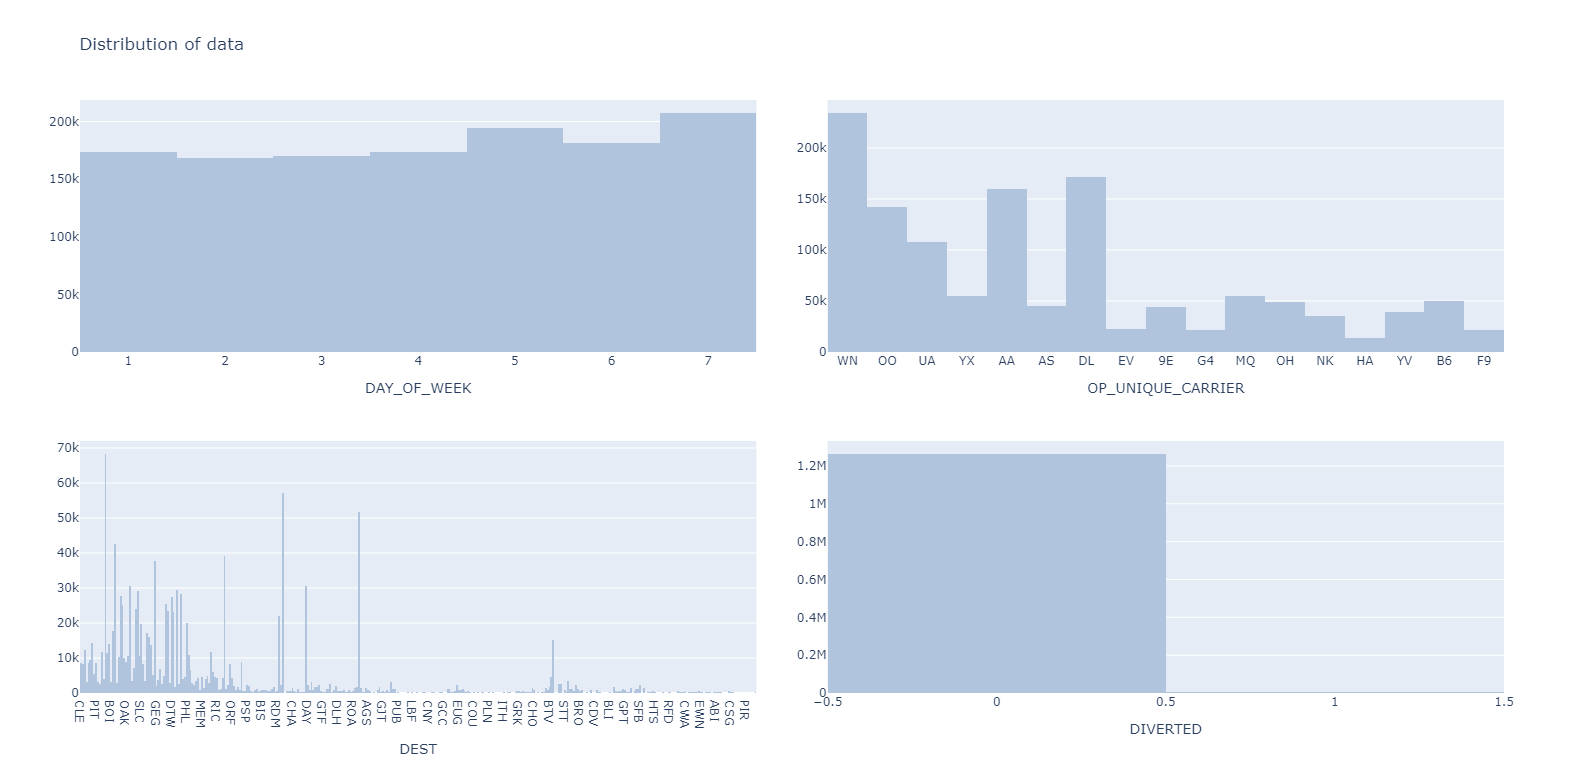
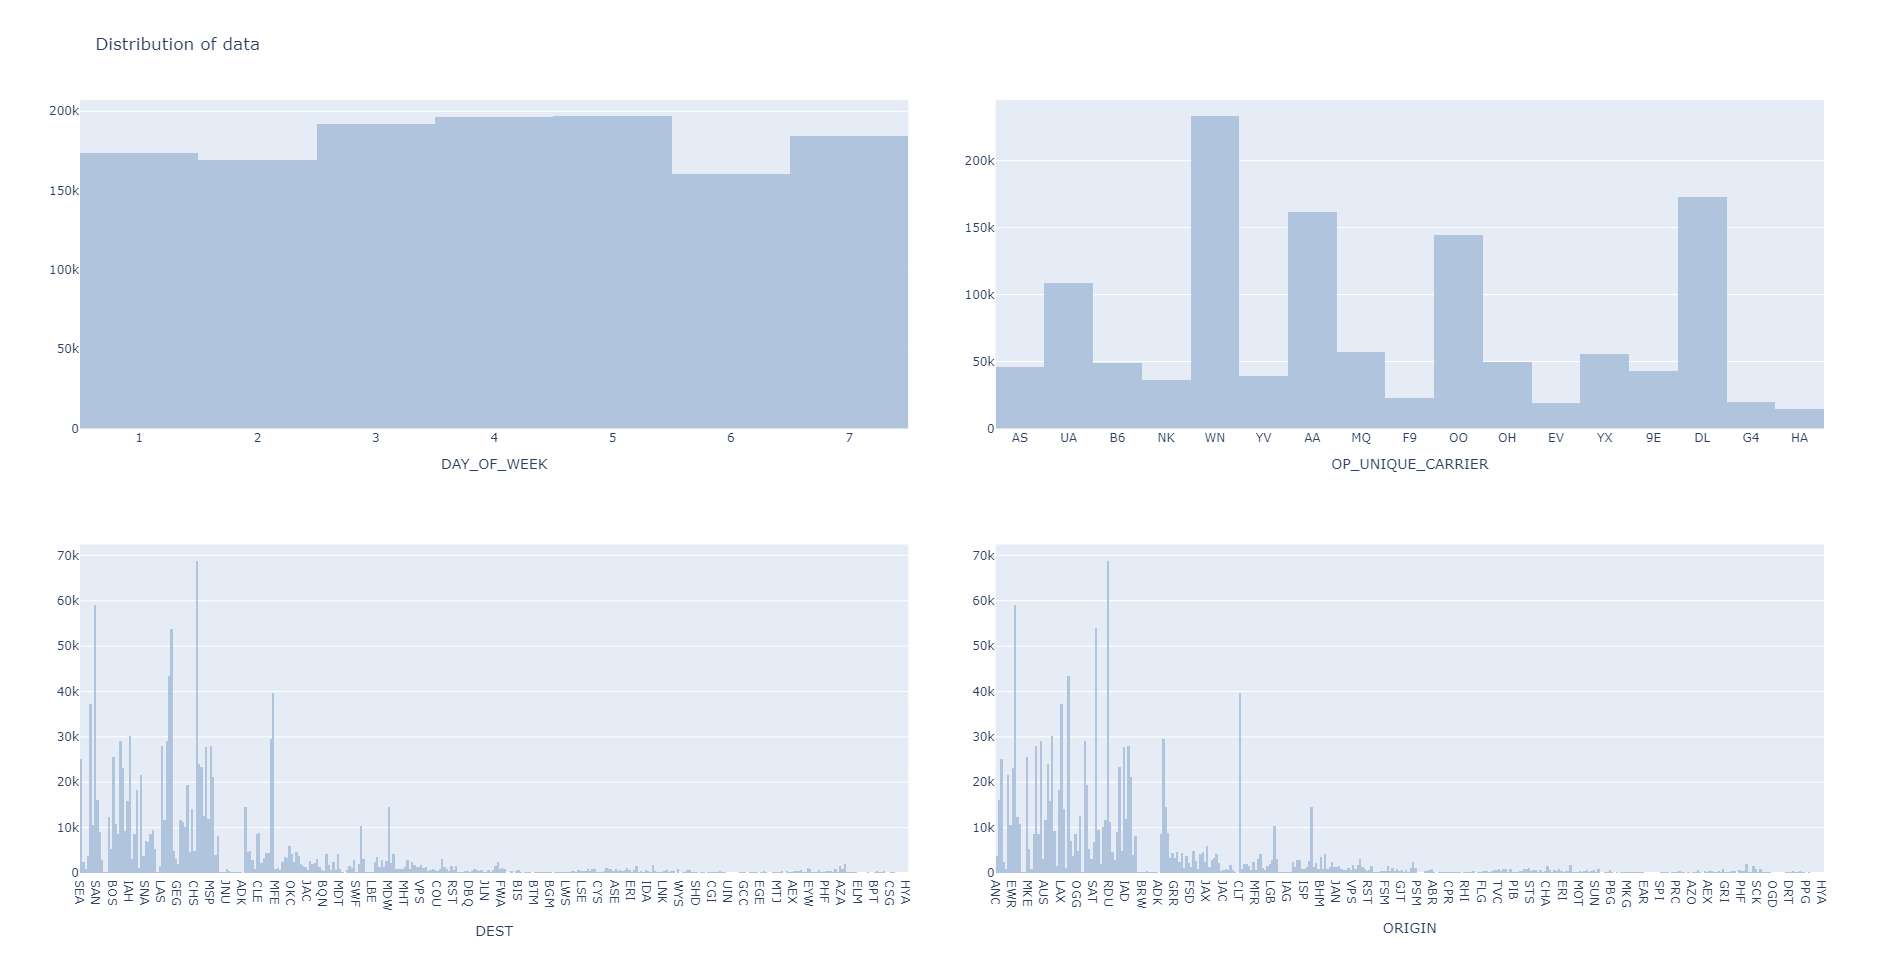
EDA Base, plots, todo, AUC

diff --git a/delays/eda.py b/delays/eda.py
@@ -41,12 +41,12 @@ def show_dist(data, columns):
 
 
 # Selected numerical columns
-show_num_cols = ['ACTUAL_ELAPSED_TIME', 'DISTANCE', 'LATE_AIRCRAFT_DELAY', 'AIR_TIME']
+show_num_cols = ['ACTUAL_ELAPSED_TIME', 'DISTANCE', 'LATE_AIRCRAFT_DELAY', 'AIR_TIME', 'WEATHER_DELAY', 'SECURITY_DELAY', 'NAS_DELAY']
 # >> show_dist(data, show_num_cols)
 
 # Selected caterogical columns
-show_cat_cols = ['DAY_OF_WEEK', 'OP_UNIQUE_CARRIER', 'DEST', 'DIVERTED']
-# >> show_dist(data, show_cat_cols)
+show_cat_cols = ['DAY_OF_WEEK', 'OP_UNIQUE_CARRIER', 'DEST', 'ORIGIN']
+show_dist(data, show_cat_cols)
 
 # Bivariate distribution of features
 # First I'm going to visualise the correlation between months and different types of delays
@@ -77,11 +77,6 @@ corr_fig = pltx.imshow(corr, color_continuous_scale='Teal')
 corr_fig.update_layout(title='Correlation between features')
 # >> corr_fig.show()
 
-# Create the map
-corr = data.corr()
-corr_fig = pltx.imshow(corr, color_continuous_scale='Teal')
-corr_fig.update_layout(title='Correlation between features')
-# >> corr_fig.show()
 
 # Show the difference in amount of delays by type (small - 1, medium - 2 and large - 3 delay)
 def delay_type(x):
@@ -91,6 +86,7 @@ def delay_type(x):
         return 'MEDIUM'
     if x >= 35:
         return 'BIG'
+
 
 data['DELAY_LEVEL'] = data['DEP_DELAY'].apply(delay_type)
 delay_bar_fig = pltx.histogram(data, x='OP_UNIQUE_CARRIER', color="DELAY_LEVEL", barmode='group',
@@ -122,3 +118,9 @@ arr_delay_bar_fig = pltx.bar(airline_delays, x='AIRLINES', y="MEAN_DELAYS",
 flight_issues_fig = pltx.bar(airline_delays, x="AIRLINES", y=["CANC_COUNT", "DIV_COUNT"],
                              color_discrete_map={"CANC_COUNT": "LightSteelBlue", "DIV_COUNT": "#718abd"})
 # >> flight_issues_fig.show()
+
+# Show the carries against destination heatmap
+
+# Money lost by airlines on delays
+
+# Checking which airline has the most delays in which category

diff --git a/delays/preprocessing.py b/delays/preprocessing.py
@@ -1,5 +1,5 @@
 import pandas as pd
-import plotly.express as pltx
+from sklearn.preprocessing import PowerTransformer
 
 # Load and merge the data sets
 m05 = pd.read_csv(f'../data/delays/2019/05.csv')
@@ -65,4 +65,21 @@ for col in cat_cols:
 
 
 # Explore the skewness
-print('Skewness:', data.skew())
+skew = data.skew()
+print('Skewness:', skew)
+
+# Fix using a boxcox transformation
+numerics = ['int16', 'int32', 'int64', 'float16', 'float32', 'float64']
+num_cols = data.select_dtypes(include=numerics)
+
+pt = PowerTransformer(method='yeo-johnson')
+skewed_features = []
+for feature, skew in skew.items():
+    if skew >= 1.5 and feature in num_cols.columns.values and feature != 'YEAR':
+        skewed_features.append(feature)
+
+pt = PowerTransformer()
+pt.fit(data[skewed_features])
+data[skewed_features] = pt.transform(data[skewed_features])
+
+print('Skewness after normalization:', data.skew())

diff --git a/delays/pred.py b/delays/pred.py
@@ -78,4 +78,4 @@ lgb_model = gsearch.fit(X=X_train, y=y_train)
 y_pred = lgb_model.predict(X_test)
 
 print('AUC:', auc(y_test, y_pred))
-print('Cross Val. AUC:', cv_auc(lgb_model, X_test, y_test, cv))
+# print('Cross Val. AUC:', cv_auc(lgb_model, X_test, y_test, cv))
